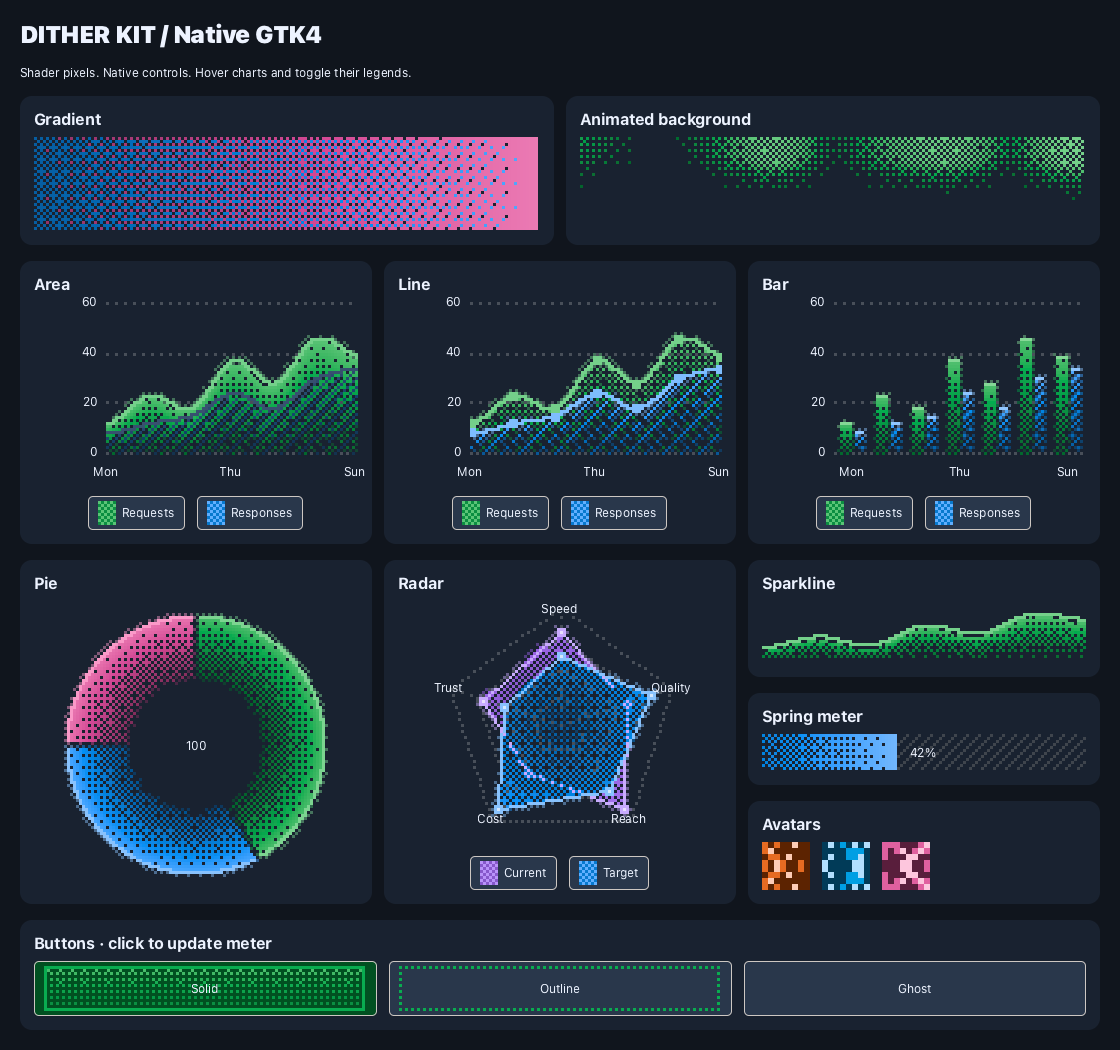
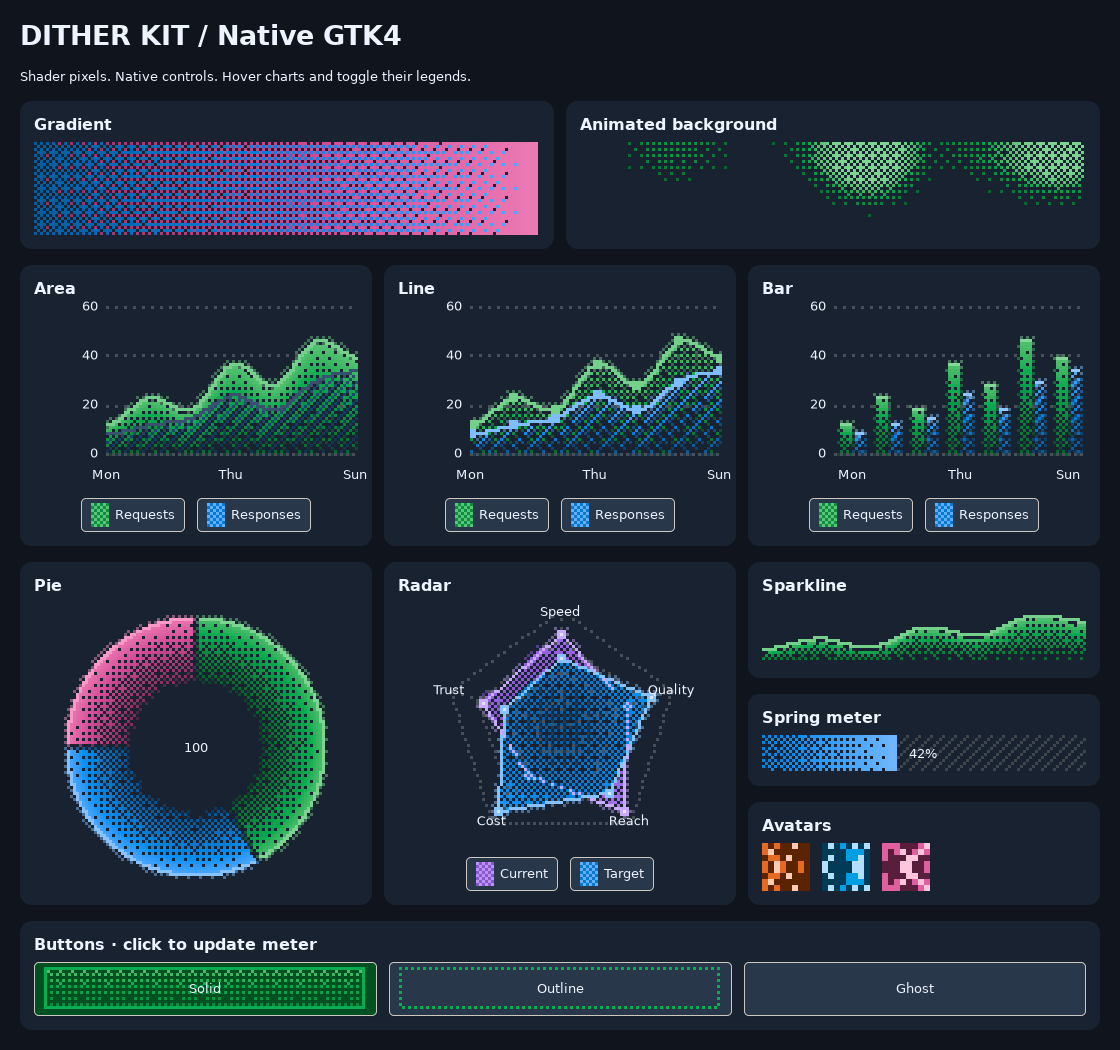
Document verified native CI and Linux gallery evidence [skip ci]

diff --git a/docs/EXECUTION.md b/docs/EXECUTION.md
@@ -1,42 +1,41 @@
-# Native port execution
+# Native port execution and validation
 
-Source: `PLAN.md` and the supplied archive, restored at baseline `abaabe4`.
-Implementation branch: `implement-native-ports`.
+Implemented from the supplied archive at baseline `abaabe4`. All planned ports, component wrappers, galleries, shared fixture tests, CI jobs, licenses and documentation are present.
 
-## Decisions
+Source published: https://github.com/iqlusioninc/dither-kit-native
 
-- This restored checkout is isolated from the source archive; implement here on a feature branch.
-- Run independent language/platform implementations in parallel; each owns a separate directory. Shared fixture and Rust reference files remain the source of truth.
-- The build host is macOS arm64 with GTK 4.24.1, Swift 6.4.2, and .NET SDK 11. Linux Mesa/EGL and Windows Direct2D require their native CI runners.
-- Replace obsolete Rust `epoxy = 0.1` (depends on yanked `xml-rs`) with `libloading` of libepoxy dispatch exports, retaining libepoxy symbol loading.
-- ComputeSharp 3.2 requires Windows SDK 22621; use that compile-time TFM while retaining minimum runtime Windows 10 build 19041.
-- FXC emits performance warnings for the reference's required signed division and modulo. Disable warnings-as-errors only on this shader, retain normal validation/optimization/linking, and enable IEEE strictness; pixel parity remains a hard gate.
-- Strengthen `dither-golden --check`: check stored JSON programs and decoded PNG bytes as well as freshly generated VM/upstream parity. A test demonstrated the original command accepted changed fixture programs.
+## Verified source
 
-## Baseline validation
+All three native CI jobs passed at **`e53d2db`**:
+https://github.com/iqlusioninc/dither-kit-native/actions/runs/43759867023
 
-- `cargo test --workspace`: 2 reference VM tests passed (GTK was a stub).
-- `cargo run -p dither-golden -- ../fixtures --check`: 39 generated scenes matched upstream exactly.
+| Platform | Validation |
+| --- | --- |
+| Ubuntu 24.04 | Rust workspace tests; all 39 GLSL fixtures through desktop GL and GLES under surfaceless Mesa; premultiplied-alpha/top-left nearest-blit regression; committed fixture integrity; 74 C# encoder/helper tests on .NET 8; GTK gallery capture under Xvfb/llvmpipe |
+| macOS 15 | Full Swift package build; nine IR tests, including independent encoding of all 39 scenes; strict Metal/ImageRenderer comparison of all 39 scenes; production premultiplied comparison of all 39 scenes; legend visibility regression |
+| Windows | Visual Studio MSBuild gallery and test builds; native FXC shader compilation; windowless Win2D/WARP comparison of all 39 golden images, with no skips |
 
-## Work streams
+The logical shader gate permits a maximum channel difference of 2 and at most 1% nonidentical pixels. Encoder arrays are checked independently against the fixture programs within `1e-4`. The Rust reference VM still matches pinned upstream `dither-core = "=0.1.0"` exactly in all 39 scenes. `golden --check` additionally rejects changed or missing committed JSON/PNG artifacts without rewriting them.
 
-- GTK renderer, components, gallery and native GPU tests: implemented. Local Rust suite passes; all 39 GLSL fixtures pass on Apple OpenGL (maximum channel delta 1). Linux EGL/Mesa remains for CI.
-- Pure Swift encoders and fixture tests: implemented; all 39 independent encodings match. Nine encoder/helper tests pass locally.
-- SwiftUI views, Metal, gallery and GPU tests: implemented. Independent full-package run passes nine IR tests plus three UI tests, including all 39 strict logical Metal goldens and all 39 production compositing cases. Maximum observed Metal channel drift is 1.
-- Pure C# encoders and fixture tests: implemented; independent Release run passes all 74 tests, including all 39 fixture encodings. Local host uses .NET 11 roll-forward; CI uses .NET 8.
-- WinUI controls, Direct2D shader, gallery and GPU tests: implemented. C# static compilation passed with native stages bypassed; Windows HLSL, packaging and pixel execution require CI.
-- CI, README and fixture-integrity regression: implemented. Changed/missing artifact regression passes; scoped code review approved.
+Additional local validation passed: native Apple OpenGL goldens, strict GTK Clippy, sandboxed SwiftPM builds, and an iOS 17 simulator-destination cross-build with correctly targeted Metal. The local Apple GL and Metal comparisons observed maximum channel drift 1.
 
-## Publishing
+## Gallery evidence
 
-User authorized a new public repository under `iqlusioninc`.
-Created and source pushed: https://github.com/iqlusioninc/dither-kit-native.
-Native run results: https://github.com/iqlusioninc/dither-kit-native/actions.
+`docs/gallery-gtk.png` is the verified Linux llvmpipe gallery capture. `artifacts/swift-gallery.png` is the inspected native SwiftUI gallery export. The GTK smoke check disables animations before constructing components, waits for completed frames and stable allocation, checks seven separated axis-label groups, and verifies populated GPU chart geometry before saving the image.
 
-The first Linux CI run passed strict desktop GL and GLES goldens (39 scenes each), fixture integrity, and all 74 C# tests on .NET 8. The gallery capture exposed timing/layout issues under llvmpipe; those are being corrected before final screenshot acceptance. Initial macOS CI exposed a plugin cache sandbox issue; the fix passes a fresh sandboxed SwiftPM run locally. Windows reached HLSL compilation and exposed FXC warnings-as-errors; the shader-local flag correction awaits native rerun.
+Native component review fixed visibility overrides, axes positioned against actual scale geometry, GTK callback ownership cycles, WinUI hover handling for unequal-length series, and button density/ticking behavior. Encoder regressions cover formatting/saturating casts and NaN reductions.
 
-## Review and pixel transport
+## Build decisions
 
-Review caught and fixed initially hidden series that could not be revealed, chart axes that did not use actual geometry, GTK widget callback ownership cycles, and WinUI legend/hover/button behavior. Encoder edge regressions cover Rust formatting/saturating casts and NaN reductions. Native galleries were visually inspected; the GTK screenshot is in `docs/gallery-gtk.png`.
+- GTK requires Rust 1.92+ and GTK 4.10+. The pure Rust IR retains its lower MSRV. System libepoxy is loaded with `libloading`; the obsolete Rust `epoxy` crate depends on yanked packages and cannot resolve a fresh build.
+- ComputeSharp 3.2 requires SDK 22621 at compile time; Windows runtime minimum remains build 19041. Visual Studio MSBuild supplies the required PRI/XAML tasks. `global.json` selects .NET SDK 8 rather than an unrelated newer installed SDK.
+- FXC signed division/modulo performance warnings are intentional for reference parity. They are not promoted to errors for this shader. Native shader compilation uses `SkipOptimization`, IEEE strictness and row-major packing, with normal validation retained and optional linking disabled. O0 and O3 exceeded the bounded compile limit; the accepted native gallery rebuild completed in 157 seconds. Optimization and physical-GPU performance tuning need separate measurements and the same golden gates.
+- Windows CI separately checks managed-only packaging, a clean native shader rebuild and test artifacts. The managed-only stage is diagnostic and cannot satisfy the native shader or pixel gates. Time limits and compiler CPU/memory logs prevent silent indefinite builds; only text diagnostics are uploaded.
 
-SwiftUI normally transports premultiplied layer colors. Converting low-alpha RGBA8 samples back to straight RGB amplifies quantization. The logical Metal golden test therefore uses a straight-RGBA transport switch in both passes, matching the plan's test-output exception. It still runs the identical interpreter, actual layer sampling, bloom and overlays; it does not recompute the base in the post pass or modify fixtures. Production uses premultiplied transport and has a separate compositing-byte test. The strict logical gate remains maximum channel delta 2 and at most 1% nonidentical pixels.
+## Swift pixel transport
+
+SwiftUI normally transports premultiplied layer colors. Converting low-alpha RGBA8 samples back to straight RGB amplifies quantization. The logical Metal golden test therefore uses straight RGBA transport in both passes, matching the plan’s base/test-output exception. It runs the identical interpreter, actual layer sampling, bloom and overlays; it does not recompute the base in the post pass or modify fixtures. Production remains premultiplied and is separately checked against premultiplied golden bytes.
+
+## Validation limits
+
+The Windows renderer was exercised on WARP, not a physical Windows GPU. WinUI gallery compilation passed; manual Windows control interaction and accessibility-device checks were not performed. The iOS destination cross-build passed, but iOS runtime rendering was not exercised. No package-registry release or signed application distribution is claimed.
